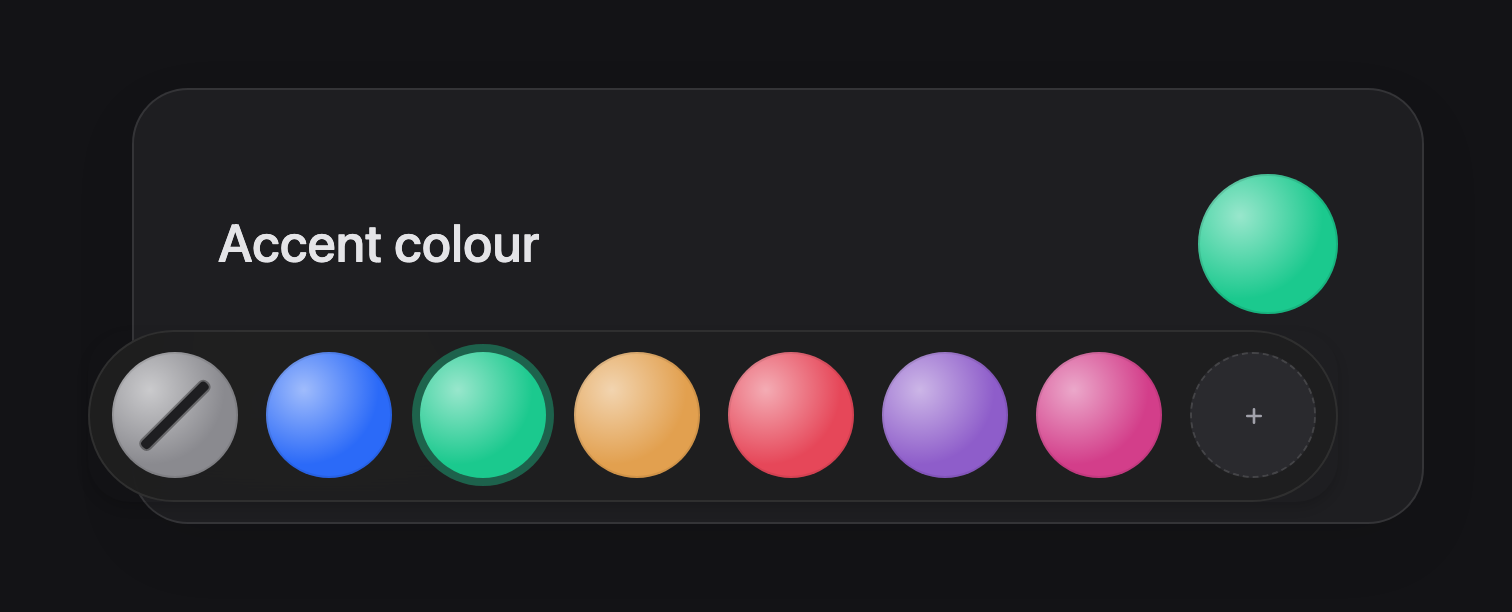
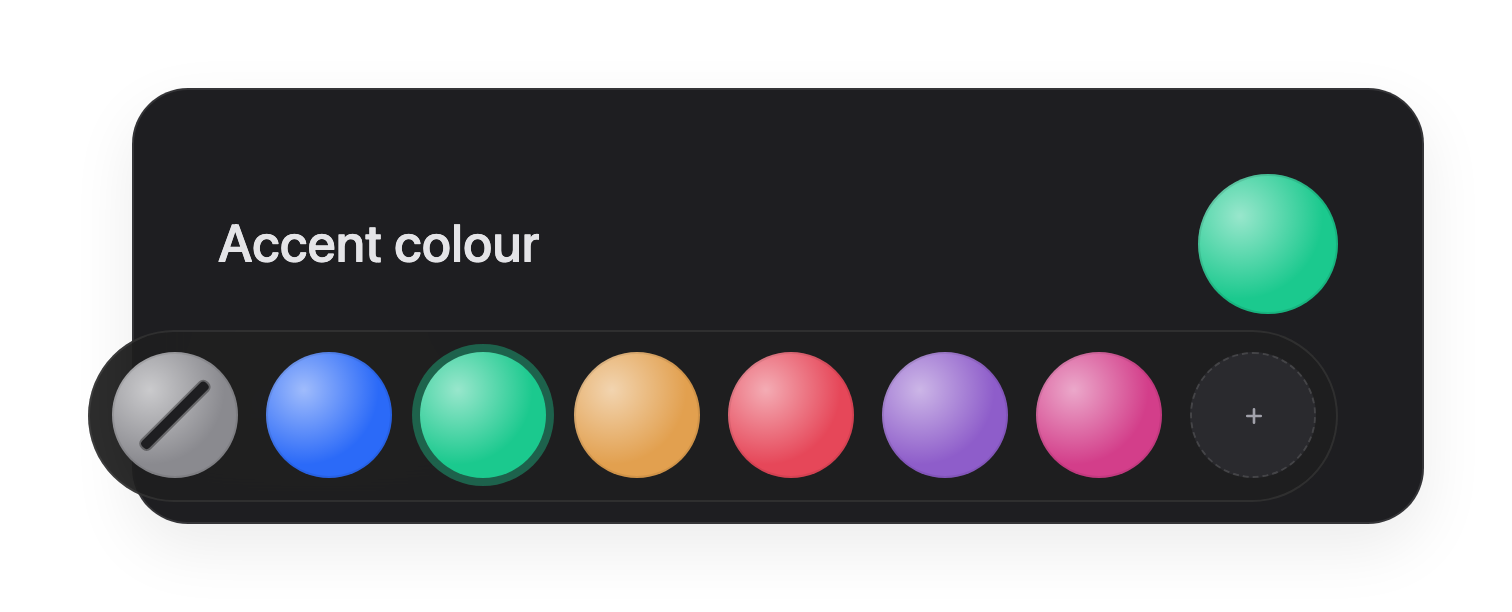
feat(docs): composed hero, transparent shots, and no ghost behind the tray
The tray had a pair of faint rectangular edges above and below it. The popover
wrapper carried a border-radius and a box-shadow of its own, so a rounded
*rectangle* was being painted behind a pill. It is a positioning wrapper and
nothing else now; the surface took the shadow, which also means an inline
surface gets one without the consumer adding it.

Shots are taken with `?bare` and omitBackground, so each carries only the
component and its shadow. Sitting on their own grey stage they read as a card
inside a card, and they could never float on anything else.

The hero is three states composed in HTML rather than by an image tool, so it
gets real layered shadows, a real gradient and real type. The stills go in as
data URLs — no server, no temporary files. Its shadow is a filter drop-shadow
rather than box-shadow, because transparent images need the shadow to follow
the component's rounded shape instead of a box around it.

Also fixes a real defect a throwaway harness in the tree had found and I nearly
deleted unread: a watcher only fires on change, so a popover mounted with
`open` already true was never promoted to the top layer — it sat in the page,
unshown and unpositioned, which is what a consumer restoring their own open
state would hit. Two tests cover it.

diff --git a/tests/browser/ColorPopover.test.ts b/tests/browser/ColorPopover.test.ts
@@ -1,7 +1,7 @@
 import { userEvent } from 'vitest/browser'
 import { mount, type VueWrapper } from '@vue/test-utils'
 import { afterEach, describe, expect, it } from 'vitest'
-import { defineComponent, h, nextTick } from 'vue'
+import { defineComponent, h, nextTick, ref } from 'vue'
 import ColorPopover from '../../src/ColorPopover.vue'
 
 let wrapper: VueWrapper | null = null
@@ -11,11 +11,17 @@ const Host = defineComponent({
   props: {
     placement: { type: String, default: 'bottom-start' },
     disabled: { type: Boolean, default: false },
+    open: { type: Boolean, default: false },
   },
   setup(props) {
+    /* Local state seeded from the prop: the popover has to be able to change it
+       when toggled, so it cannot be driven by the prop alone. */
+    const open = ref(props.open)
     return () => h(ColorPopover as never, {
-      placement: props.placement,
-      disabled: props.disabled,
+      'placement': props.placement,
+      'disabled': props.disabled,
+      'open': open.value,
+      'onUpdate:open': (value: boolean) => { open.value = value },
     }, {
       trigger: ({ toggle, triggerAttrs }: {
         toggle: () => void
@@ -106,6 +112,25 @@ describe('ColorPopover — open and close', () => {
     trigger().click()
     await settle()
     expect(isOpen()).toBe(false)
+  })
+})
+
+describe('ColorPopover — mounted already open', () => {
+  it('promotes a popover whose open state is true from the start', async () => {
+    // A watcher only fires on change. Without a mount-time sync the panel sits
+    // in the page unshown, which is what a consumer restoring their own state
+    // would hit.
+    wrapper = mount(Host, { props: { open: true }, attachTo: document.body })
+    await settle()
+    expect(isOpen()).toBe(true)
+  })
+
+  it('positions it too, rather than leaving it at the viewport origin', async () => {
+    wrapper = mount(Host, { props: { open: true }, attachTo: document.body })
+    await settle()
+    const panelBox = panel().getBoundingClientRect()
+    const triggerBox = trigger().getBoundingClientRect()
+    expect(panelBox.top).toBeGreaterThanOrEqual(triggerBox.bottom)
   })
 })
 

diff --git a/src/ColorPopover.vue b/src/ColorPopover.vue
@@ -1,6 +1,6 @@
 <script setup lang="ts">
 import { autoUpdate, computePosition, flip, offset, shift, type Placement } from '@floating-ui/dom'
-import { nextTick, onBeforeUnmount, ref, useId, useTemplateRef, watch } from 'vue'
+import { nextTick, onBeforeUnmount, onMounted, ref, useId, useTemplateRef, watch } from 'vue'
 
 /**
  * The default floating layer, and the designated swap-out point: a consumer with
@@ -88,7 +88,7 @@ function close() {
   open.value = false
 }
 
-watch(open, async (isOpen) => {
+async function syncPopoverState(isOpen: boolean) {
   const panel = panelEl.value
   if (!panel) return
 
@@ -108,6 +108,16 @@ watch(open, async (isOpen) => {
   // The anchor is a wrapper, not the control — return focus to whatever the
   // consumer put inside it.
   if (triggerEl.value) focusables(triggerEl.value)[0]?.focus()
+}
+
+watch(open, syncPopoverState)
+
+/* A watcher only fires on change, so a popover mounted with `open` already true
+   would never be promoted to the top layer — it would sit in the page, unshown
+   and unpositioned. Consumers who restore an open panel from their own state do
+   exactly that. */
+onMounted(() => {
+  if (open.value) syncPopoverState(true)
 })
 
 /**

diff --git a/src/style.css b/src/style.css
@@ -96,7 +96,13 @@
   display: inline-flex;
 }
 
-/* The UA gives [popover] centred inset and a border; positioning owns those. */
+/**
+ * A positioning wrapper and nothing else. The UA gives `[popover]` a centred
+ * inset and a border, which have to go; so does any chrome of our own. Giving
+ * this element a radius and a shadow paints a rounded *rectangle* behind
+ * whatever it holds — visible as a pair of ghost edges above and below the
+ * tray, which is a pill. The content carries its own.
+ */
 .vtcp-popover {
   position: fixed;
   inset: auto;
@@ -104,9 +110,7 @@
   padding: 0;
   overflow: visible;
   border: 0;
-  border-radius: var(--_radius);
   background: transparent;
-  box-shadow: var(--_shadow);
 }
 
 .vtcp-popover:not(:popover-open) {
@@ -286,6 +290,9 @@
   padding: 0 1rem 1rem;
   border-radius: var(--_radius);
   background: var(--_surface);
+  /* Its own, now that the popover wrapper carries none. Inline uses of the
+     surface get it too, which they previously had to add themselves. */
+  box-shadow: var(--_shadow);
 }
 
 .vtcp-surface__header {

diff --git a/playground/src/Demo.vue b/playground/src/Demo.vue
@@ -40,6 +40,18 @@ const color = ref<string | null>('#1bc98e')
 html {
   font-size: clamp(20px, 2vw, 48px);
 }
+
+/**
+ * `?bare` drops the stage so screenshots can be taken with a transparent
+ * background. The card keeps its own shadow, so the component floats on
+ * whatever it is later placed on instead of arriving with a grey rectangle
+ * around it.
+ */
+html.bare,
+html.bare body,
+html.bare .stage {
+  background: none;
+}
 </style>
 
 <style scoped>

diff --git a/playground/src/demo.ts b/playground/src/demo.ts
@@ -2,4 +2,8 @@ import { createApp } from 'vue'
 import Demo from './Demo.vue'
 import './style.css'
 
+if (new URLSearchParams(location.search).has('bare')) {
+  document.documentElement.classList.add('bare')
+}
+
 createApp(Demo).mount('#app')

diff --git a/CONTRIBUTING.md b/CONTRIBUTING.md
@@ -87,6 +87,14 @@ What matters here:
   down onto the thing being photographed; `visibility` is the one property a
   descendant can opt back out of.
 - **Shoot with `reducedMotion: 'reduce'`**, so nothing is caught mid-transition.
+- **`?bare` plus `omitBackground` gives a transparent shot.** The component
+  keeps its own shadow and floats on whatever it is placed on, rather than
+  arriving with a grey rectangle that reads as a card inside a card.
+- **The hero is composed in HTML, not with an image tool**, so it gets real
+  shadows, a real gradient and real type. The stills go in as data URLs, so it
+  needs no server and no temporary files. Its shadow is a `filter:
+  drop-shadow`, not `box-shadow` — the images are transparent, so the shadow
+  has to follow the component's rounded shape rather than a box around it.
 
 The shots are placed in the readme next to what they illustrate rather than
 collected at the top, which is also why there is no composite strip: three

diff --git a/README.md b/README.md
@@ -8,7 +8,7 @@ An opinionated Vue 3 colour picker. A floating tray puts the common colours one
 tap away; behind the `+` is a full picker — hue, shades, greys and hex — built so
 that every colour a user can reach is one worth shipping.
 
-![The tray open beside a form row, a swatch lifted under the cursor](./docs/shots/03-hover.png)
+![Three states side by side: a resting swatch in a form row, the tray open with a swatch lifted, and the full picker](./docs/hero.png)
 
 ## The problem
 
